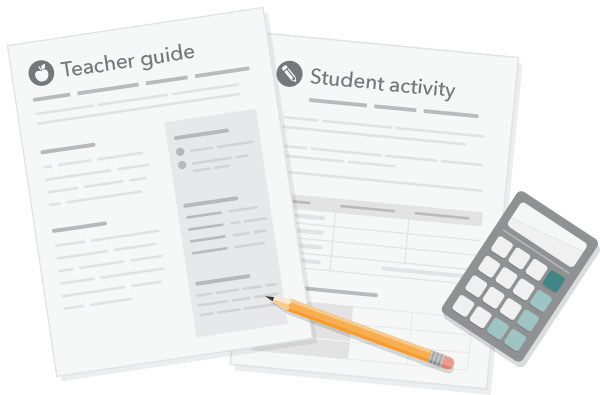
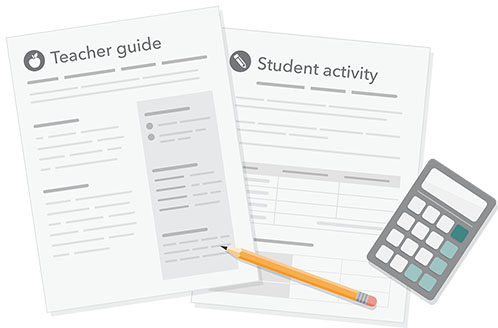
Refactor hero at the top of the search landing page

diff --git a/teachers_digital_platform/jinja2/teachers_digital_platform/activity_index_page.html b/teachers_digital_platform/jinja2/teachers_digital_platform/activity_index_page.html
@@ -31,35 +31,30 @@
 {% block body_content scoped %}
 <div class="tdp-activity-search wrapper content_wrapper {% block content_wrapper_modifiers -%}{%- endblock %}">
     <div class="content_main content__1-3">
-        <section class="m-hero">
-            <div class="m-hero_wrapper">
-                <div class="m-hero_text">
-                    <h1 class="m-hero_heading">{{ page.title | striptags }}</h1>
-                    {{ page.intro | richtext }}
-                    <div class="m-notification m-notification__visible m-notification__warning u-mt30 u-mb10">
-                        <span class="a-icon">{{ svg_icon('warning-round') }}</span>
-                        <div class="m-notification_content">
-                            <div class="m-notification_message">
-                                <h2 class="h4">Currently, there are only activities for high school.</h2>
-                                <p>Activities for elementary and middle school are being developed and will be available at a later time.</p>
-                            </div>
+        <section class="m-search-hero">
+            <div class="m-search-hero_text">
+                <h1 class="m-hero_heading">{{ page.title | striptags }}</h1>
+                {{ page.intro | richtext }}
+                <div class="m-notification m-notification__visible m-notification__warning u-mt30">
+                    <span class="a-icon">{{ svg_icon('warning-round') }}</span>
+                    <div class="m-notification_content">
+                        <div class="m-notification_message">
+                            <h2 class="h4">Currently, there are only activities for high school.</h2>
+                            <p>Activities for elementary and middle school are being developed and will be available at a later time.</p>
                         </div>
                     </div>
                 </div>
-                <div class="m-hero_image-wrapper">
-                    <div class="m-hero_image"></div>
-                </div>
             </div>
-            <style>
-                .m-hero_image {
-                    background-image: url('{{ static('tdp/img/search-landing-hero.jpg') }}');
-                    filter: progid:DXImageTransform.Microsoft.AlphaImageLoader(
-                        src='{{ static('tdp/img/search-landing-hero.jpg') }}',
-                        sizingMethod='scale');
-                }
-            </style>
+            <div class="m-search-hero_image-wrapper">
+                <img class="m-search-hero_image"
+                    srcset="{{ static('tdp/img/search-landing-hero.jpg') }},
+                        {{ static('tdp/img/search-landing-hero-2x.jpg') }} 2x"
+                    src="{{ static('tdp/img/search-landing-hero-2x.jpg') }}"
+                    width="498"
+                    alt="">
+            </div>
         </section>
-        <div class="block block__padded-top block__border-top u-mt0 u-mb30">
+        <div class="block block__padded-top block__border-top u-mt45 u-mb30">
             <h2>Search for activities</h2>
             <form class="u-mt30" method="get" action="." data-js-hook="behavior_submit-search">
                 <div class="o-form__input-w-btn">

diff --git a/teachers_digital_platform/css/molecules/search-hero.less b/teachers_digital_platform/css/molecules/search-hero.less
@@ -1,0 +1,28 @@
+//
+// Search hero
+//
+
+.m-search-hero {
+    .respond-to-min(@bp-sm-min, {
+        display: flex;
+    });
+}
+
+.m-search-hero_text {
+    .respond-to-min(@bp-med-min, {
+        flex-basis: 60%;
+    });
+}
+
+.m-search-hero_image-wrapper {
+    display: none;
+
+    .respond-to-min(@bp-med-min, {
+        box-sizing: border-box;
+        display: block;
+        flex-basis: 40%;
+        padding-left: unit( 30px / @base-font-size-px, em );
+    });
+}
+
+.m-search-hero_image {}

diff --git a/teachers_digital_platform/css/tdp.less b/teachers_digital_platform/css/tdp.less
@@ -35,6 +35,7 @@
 @import 'organisms/dimension-selection-bar.less';
 @import 'organisms/inner-footer.less';
 @import 'organisms/expandable-facets.less';
+@import 'molecules/search-hero.less';
 @import 'organisms/survey.less';
 @import 'organisms/tour.less';
 @import 'utilities/center.less';
